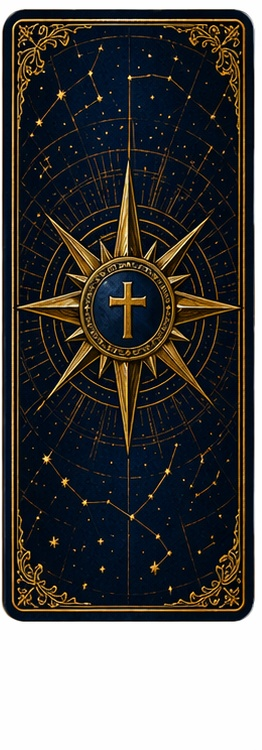
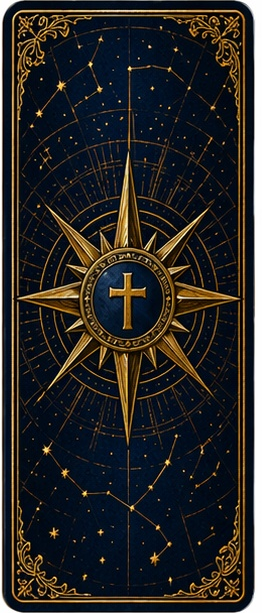
fix: card art whitespace stripe + disabled button styling
* Auto-cropped white whitespace from top/bottom of all 8 card images
  (card-back + 7 role cards). Originals were 262x750 with 100-150px of
  pure white at one end; cropped versions are 262x613-630 with no
  whitespace. Updated RoleRevealCard container aspect ratio from 262/750
  to 262/620 and corresponding height from 687 to 568.
* .btn:disabled was being overridden by the entry fadeIn animation that
  ends at opacity 1 with animation-fill-mode: both. Added !important to
  the disabled opacity, lowered to 0.4, and added grayscale(0.4) so
  disabled buttons are clearly distinguishable from active ones.

diff --git a/src/components/RoleRevealCard.tsx b/src/components/RoleRevealCard.tsx
@@ -58,7 +58,7 @@ export default function RoleRevealCard({ role, alignment, description, onReveale
       <div
         ref={containerRef}
         className="card-flip-container"
-        style={{ width: 240, height: 687, maxHeight: '70vh', aspectRatio: '262 / 750' }}
+        style={{ width: 240, height: 568, maxHeight: '70vh', aspectRatio: '262 / 620' }}
       >
         <div className={`card-flip-inner ${flipped ? 'flipped' : ''}`}>
           {/* FRONT FACE — Card Back (visible initially) */}

diff --git a/src/app/globals.css b/src/app/globals.css
@@ -342,8 +342,9 @@ h3 {
 }
 
 .btn:disabled {
-  opacity: 0.5;
+  opacity: 0.4 !important;
   cursor: not-allowed;
+  filter: grayscale(0.4);
 }
 
 .btn-primary {
